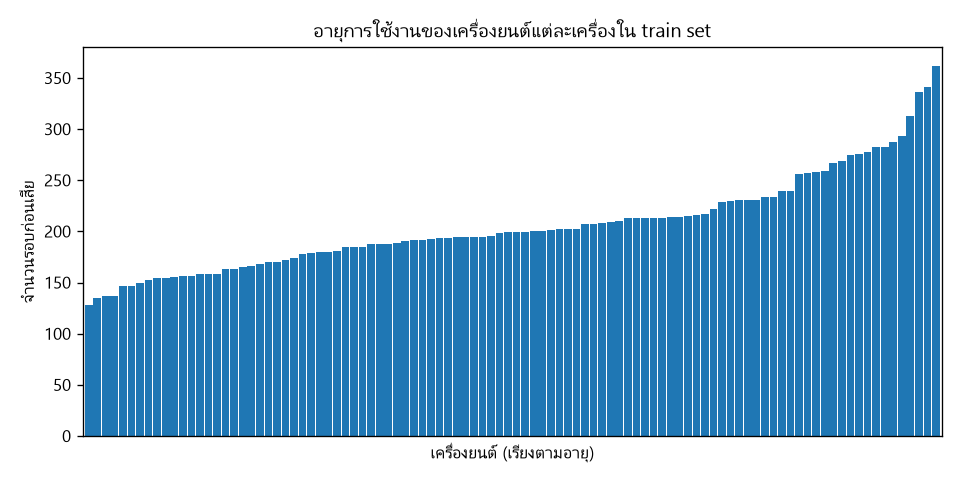
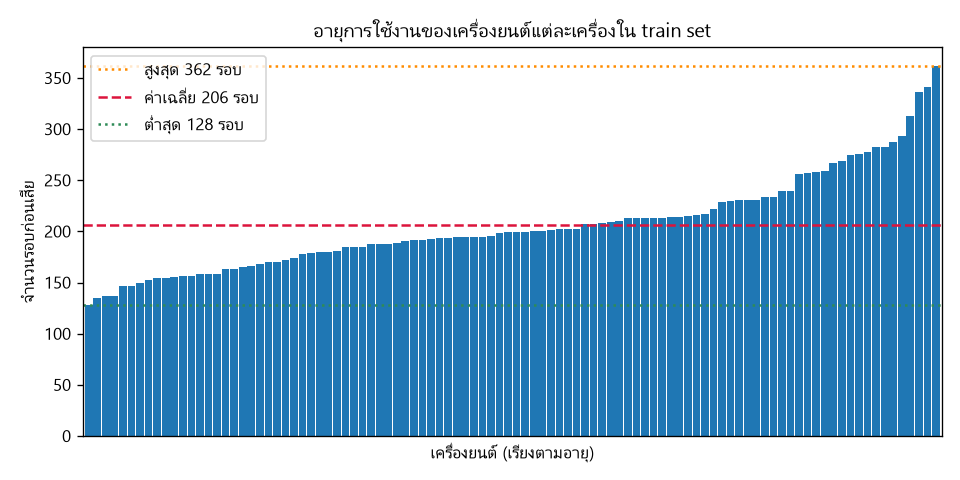
Mark max, mean, and min on the engine life chart
The sorted bars showed the spread but left the reader to eyeball the
endpoints. Draw reference lines at 362, 206, and 128 cycles so the range
that motivates the whole problem is readable straight off the chart.

Pass the line handles to legend() explicitly, otherwise it also picks up
the bar series and prints the raw column name "time_cycles".

diff --git a/rul_tutorial.py b/rul_tutorial.py
@@ -73,6 +73,23 @@ print(cycles_per_unit.describe())
 
 plt.figure(figsize=(8, 4))
 cycles_per_unit.sort_values().plot(kind="bar", width=0.9)
+
+# ลากเส้นสูงสุด/เฉลี่ย/ต่ำสุดพาดไว้ ให้เห็นช่วงการกระจายของอายุเครื่องยนต์ชัด ๆ
+mean_cycles = cycles_per_unit.mean()
+min_cycles = cycles_per_unit.min()
+max_cycles = cycles_per_unit.max()
+
+ref_lines = [
+    plt.axhline(max_cycles, color="darkorange", linestyle=":", linewidth=1.5,
+                label=f"สูงสุด {max_cycles:.0f} รอบ"),
+    plt.axhline(mean_cycles, color="crimson", linestyle="--", linewidth=1.5,
+                label=f"ค่าเฉลี่ย {mean_cycles:.0f} รอบ"),
+    plt.axhline(min_cycles, color="seagreen", linestyle=":", linewidth=1.5,
+                label=f"ต่ำสุด {min_cycles:.0f} รอบ"),
+]
+# ระบุ handle เอง ไม่งั้น legend จะแถมชื่อคอลัมน์ "time_cycles" ของแท่งมาด้วย
+plt.legend(handles=ref_lines)
+
 plt.xticks([])
 plt.xlabel("เครื่องยนต์ (เรียงตามอายุ)")
 plt.ylabel("จำนวนรอบก่อนเสีย")
